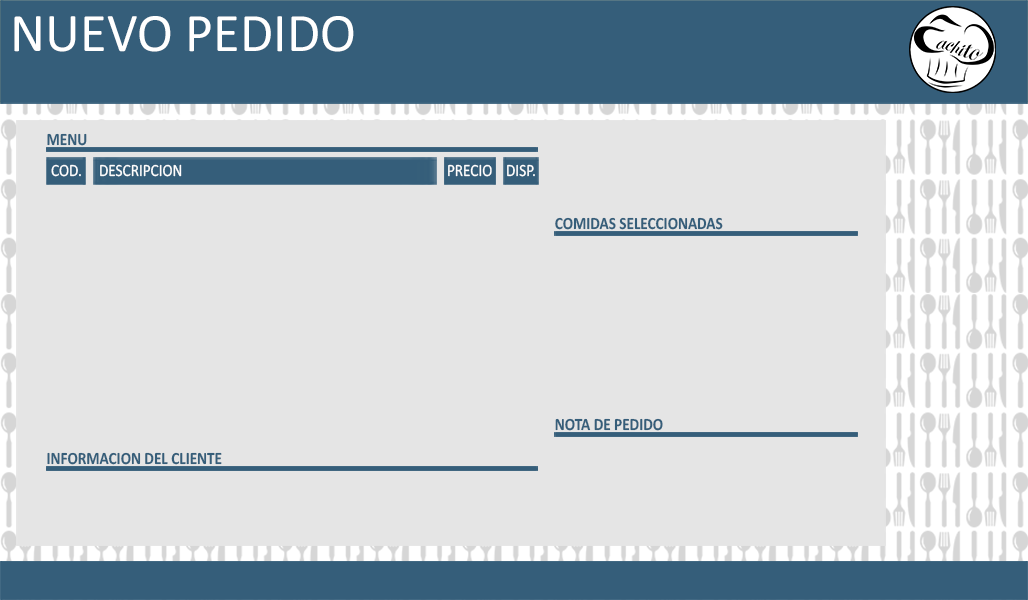
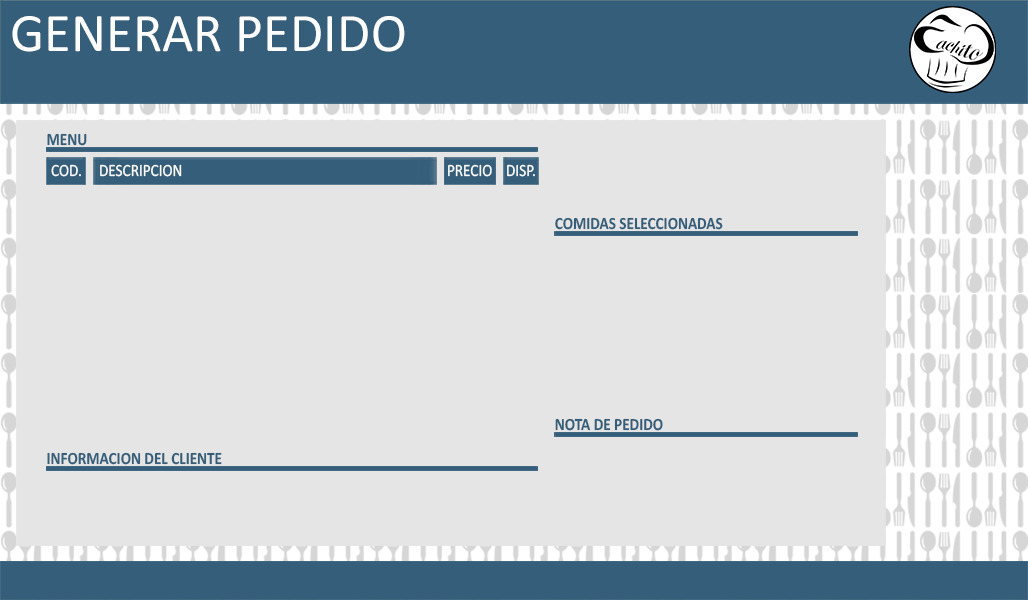
15/11/2016

Changed region(s): [[0.0, 0.03, 0.4047, 0.09]]

diff --git a/src/cachitodelivery/Pedido_modificar.java b/src/cachitodelivery/Pedido_modificar.java
@@ -8,6 +8,7 @@ package cachitodelivery;
 import Ventana_clases.Fondo_caja_liquidacion;
 import Ventana_clases.Fondo_listado_pedidos_admin;
 import Ventana_clases.Fondo_listado_pedidos_cajero;
+import Ventana_clases.Fondo_pedido_modificar;
 import Ventana_clases.Fondo_pedido_nuevo;
 import java.awt.BorderLayout;
 import javax.swing.ImageIcon;
@@ -20,18 +21,18 @@ import modelos.UsuarioDAO;
  *
  * @author Cusipuma
  */
-public class Pedido_nuevo extends javax.swing.JFrame implements Runnable{
+public class Pedido_modificar extends javax.swing.JFrame implements Runnable{
     
     Thread h1;
     Fecha fecha = new Fecha();
     Usuario cuentaOficial = new Usuario();
     Cliente clientePedido = new Cliente();
     
-    public Pedido_nuevo(Usuario user, Cliente cli) {
+    public Pedido_modificar(Usuario user, Cliente cli) {
         initComponents();
         h1= new Thread(this);
 //        h1.start();
-        Fondo_pedido_nuevo fondo = new Fondo_pedido_nuevo (1028,600);
+        Fondo_pedido_modificar fondo = new Fondo_pedido_modificar (1028,600);
         this.add(fondo, BorderLayout.CENTER);
         cuentaOficial = user;
         clientePedido = cli;
@@ -231,12 +232,12 @@ public class Pedido_nuevo extends javax.swing.JFrame implements Runnable{
         jLabel11.setForeground(new java.awt.Color(53, 95, 123));
         jLabel11.setText("DEMORA: 15 min");
 
-        jButton6.setIcon(new javax.swing.ImageIcon(getClass().getResource("/Botones/Finalizar.png"))); // NOI18N
+        jButton6.setIcon(new javax.swing.ImageIcon(getClass().getResource("/Botones/Guardar2.png"))); // NOI18N
         jButton6.setBorder(null);
         jButton6.setBorderPainted(false);
         jButton6.setContentAreaFilled(false);
         jButton6.setCursor(new java.awt.Cursor(java.awt.Cursor.HAND_CURSOR));
-        jButton6.setRolloverIcon(new javax.swing.ImageIcon(getClass().getResource("/Botones/Finalizar_hover.png"))); // NOI18N
+        jButton6.setRolloverIcon(new javax.swing.ImageIcon(getClass().getResource("/Botones/Guardar2_hover.png"))); // NOI18N
         jButton6.addActionListener(new java.awt.event.ActionListener() {
             public void actionPerformed(java.awt.event.ActionEvent evt) {
                 jButton6ActionPerformed(evt);
@@ -468,14 +469,22 @@ public class Pedido_nuevo extends javax.swing.JFrame implements Runnable{
                 }
             }
         } catch (ClassNotFoundException ex) {
-            java.util.logging.Logger.getLogger(Pedido_nuevo.class.getName()).log(java.util.logging.Level.SEVERE, null, ex);
+            java.util.logging.Logger.getLogger(Pedido_modificar.class.getName()).log(java.util.logging.Level.SEVERE, null, ex);
         } catch (InstantiationException ex) {
-            java.util.logging.Logger.getLogger(Pedido_nuevo.class.getName()).log(java.util.logging.Level.SEVERE, null, ex);
+            java.util.logging.Logger.getLogger(Pedido_modificar.class.getName()).log(java.util.logging.Level.SEVERE, null, ex);
         } catch (IllegalAccessException ex) {
-            java.util.logging.Logger.getLogger(Pedido_nuevo.class.getName()).log(java.util.logging.Level.SEVERE, null, ex);
+            java.util.logging.Logger.getLogger(Pedido_modificar.class.getName()).log(java.util.logging.Level.SEVERE, null, ex);
         } catch (javax.swing.UnsupportedLookAndFeelException ex) {
-            java.util.logging.Logger.getLogger(Pedido_nuevo.class.getName()).log(java.util.logging.Level.SEVERE, null, ex);
+            java.util.logging.Logger.getLogger(Pedido_modificar.class.getName()).log(java.util.logging.Level.SEVERE, null, ex);
         }
+        //</editor-fold>
+        //</editor-fold>
+        //</editor-fold>
+        //</editor-fold>
+        //</editor-fold>
+        //</editor-fold>
+        //</editor-fold>
+        //</editor-fold>
         //</editor-fold>
         //</editor-fold>
         //</editor-fold>

diff --git a/src/cachitodelivery/Listado_pedidos_cajero.java b/src/cachitodelivery/Listado_pedidos_cajero.java
@@ -10,6 +10,7 @@ import Ventana_clases.Fondo_listado_pedidos_admin;
 import Ventana_clases.Fondo_listado_pedidos_cajero;
 import java.awt.BorderLayout;
 import javax.swing.ImageIcon;
+import modelos.Cliente;
 import modelos.Fecha;
 import modelos.Usuario;
 import modelos.UsuarioDAO;
@@ -194,6 +195,11 @@ public class Listado_pedidos_cajero extends javax.swing.JFrame implements Runnab
         jButton3.setContentAreaFilled(false);
         jButton3.setCursor(new java.awt.Cursor(java.awt.Cursor.HAND_CURSOR));
         jButton3.setRolloverIcon(new javax.swing.ImageIcon(getClass().getResource("/Botones/Modificar_hover.png"))); // NOI18N
+        jButton3.addActionListener(new java.awt.event.ActionListener() {
+            public void actionPerformed(java.awt.event.ActionEvent evt) {
+                jButton3ActionPerformed(evt);
+            }
+        });
 
         jButton4.setIcon(new javax.swing.ImageIcon(getClass().getResource("/Botones/Estado.png"))); // NOI18N
         jButton4.setBorder(null);
@@ -468,6 +474,12 @@ public class Listado_pedidos_cajero extends javax.swing.JFrame implements Runnab
         Listado_clientes vent = new Listado_clientes(cuentaOficial);
         vent.mostrar();
     }//GEN-LAST:event_jButton6ActionPerformed
+
+    private void jButton3ActionPerformed(java.awt.event.ActionEvent evt) {//GEN-FIRST:event_jButton3ActionPerformed
+        setVisible(false);
+        Pedido_modificar vent = new Pedido_modificar(cuentaOficial, new Cliente());
+        vent.mostrar(true);
+    }//GEN-LAST:event_jButton3ActionPerformed
 
     /**
      * @param args the command line arguments

diff --git a/src/cachitodelivery/Listado_pedidos_admin.java b/src/cachitodelivery/Listado_pedidos_admin.java
@@ -17,6 +17,7 @@ import java.util.logging.Logger;
 import javax.imageio.ImageIO;
 import javax.swing.ImageIcon;
 import modelos.Cadena;
+import modelos.Cliente;
 import modelos.Fecha;
 import modelos.Pedido;
 import modelos.PedidoDAO;
@@ -334,6 +335,11 @@ public class Listado_pedidos_admin extends javax.swing.JFrame implements Runnabl
         jButton3.setContentAreaFilled(false);
         jButton3.setCursor(new java.awt.Cursor(java.awt.Cursor.HAND_CURSOR));
         jButton3.setRolloverIcon(new javax.swing.ImageIcon(getClass().getResource("/Botones/Modificar_hover.png"))); // NOI18N
+        jButton3.addActionListener(new java.awt.event.ActionListener() {
+            public void actionPerformed(java.awt.event.ActionEvent evt) {
+                jButton3ActionPerformed(evt);
+            }
+        });
 
         jButton4.setIcon(new javax.swing.ImageIcon(getClass().getResource("/Botones/Estado.png"))); // NOI18N
         jButton4.setBorder(null);
@@ -712,6 +718,12 @@ public class Listado_pedidos_admin extends javax.swing.JFrame implements Runnabl
     private void jTable1MousePressed(java.awt.event.MouseEvent evt) {//GEN-FIRST:event_jTable1MousePressed
         seleccionarTabla();
     }//GEN-LAST:event_jTable1MousePressed
+
+    private void jButton3ActionPerformed(java.awt.event.ActionEvent evt) {//GEN-FIRST:event_jButton3ActionPerformed
+        setVisible(false);
+        Pedido_modificar vent = new Pedido_modificar(cuentaOficial, new Cliente());
+        vent.mostrar(true);
+    }//GEN-LAST:event_jButton3ActionPerformed
 
     /**
      * @param args the command line arguments

diff --git a/src/Ventana_clases/Fondo_pedido_modificar.java b/src/Ventana_clases/Fondo_pedido_modificar.java
@@ -1,0 +1,22 @@
+package Ventana_clases;
+
+import java.awt.Dimension;
+import java.awt.Graphics;
+import javax.swing.ImageIcon;
+import javax.swing.JPanel;
+
+public class Fondo_pedido_modificar extends JPanel{
+    
+    public Fondo_pedido_modificar(int a, int b){
+        this.setSize(a,b);
+    }
+    
+    public void paintComponent(Graphics g){
+        Dimension tam = getSize();
+        ImageIcon img = new ImageIcon(new ImageIcon(getClass().getResource("/Ventanas/Modificar_pedido.png")).getImage());
+        g.drawImage(img.getImage(), 0, 0, tam.width, tam.height, null);
+        setOpaque(false);
+        super.paintComponent(g);
+    }
+    
+}

diff --git a/src/cachitodelivery/Listado_clientes.java b/src/cachitodelivery/Listado_clientes.java
@@ -8,6 +8,7 @@ package cachitodelivery;
 import Ventana_clases.Fondo_listado_clientes;
 import java.awt.BorderLayout;
 import javax.swing.ImageIcon;
+import modelos.Cliente;
 import modelos.Usuario;
 
 /**
@@ -334,7 +335,7 @@ public class Listado_clientes extends javax.swing.JFrame {
 
     private void jButton1ActionPerformed(java.awt.event.ActionEvent evt) {//GEN-FIRST:event_jButton1ActionPerformed
         setVisible(false);
-        Pedido_nuevo vent = new Pedido_nuevo(cuentaOficial);
+        Pedido_nuevo vent = new Pedido_nuevo(cuentaOficial, new Cliente());
         vent.mostrar(true);
     }//GEN-LAST:event_jButton1ActionPerformed
 
